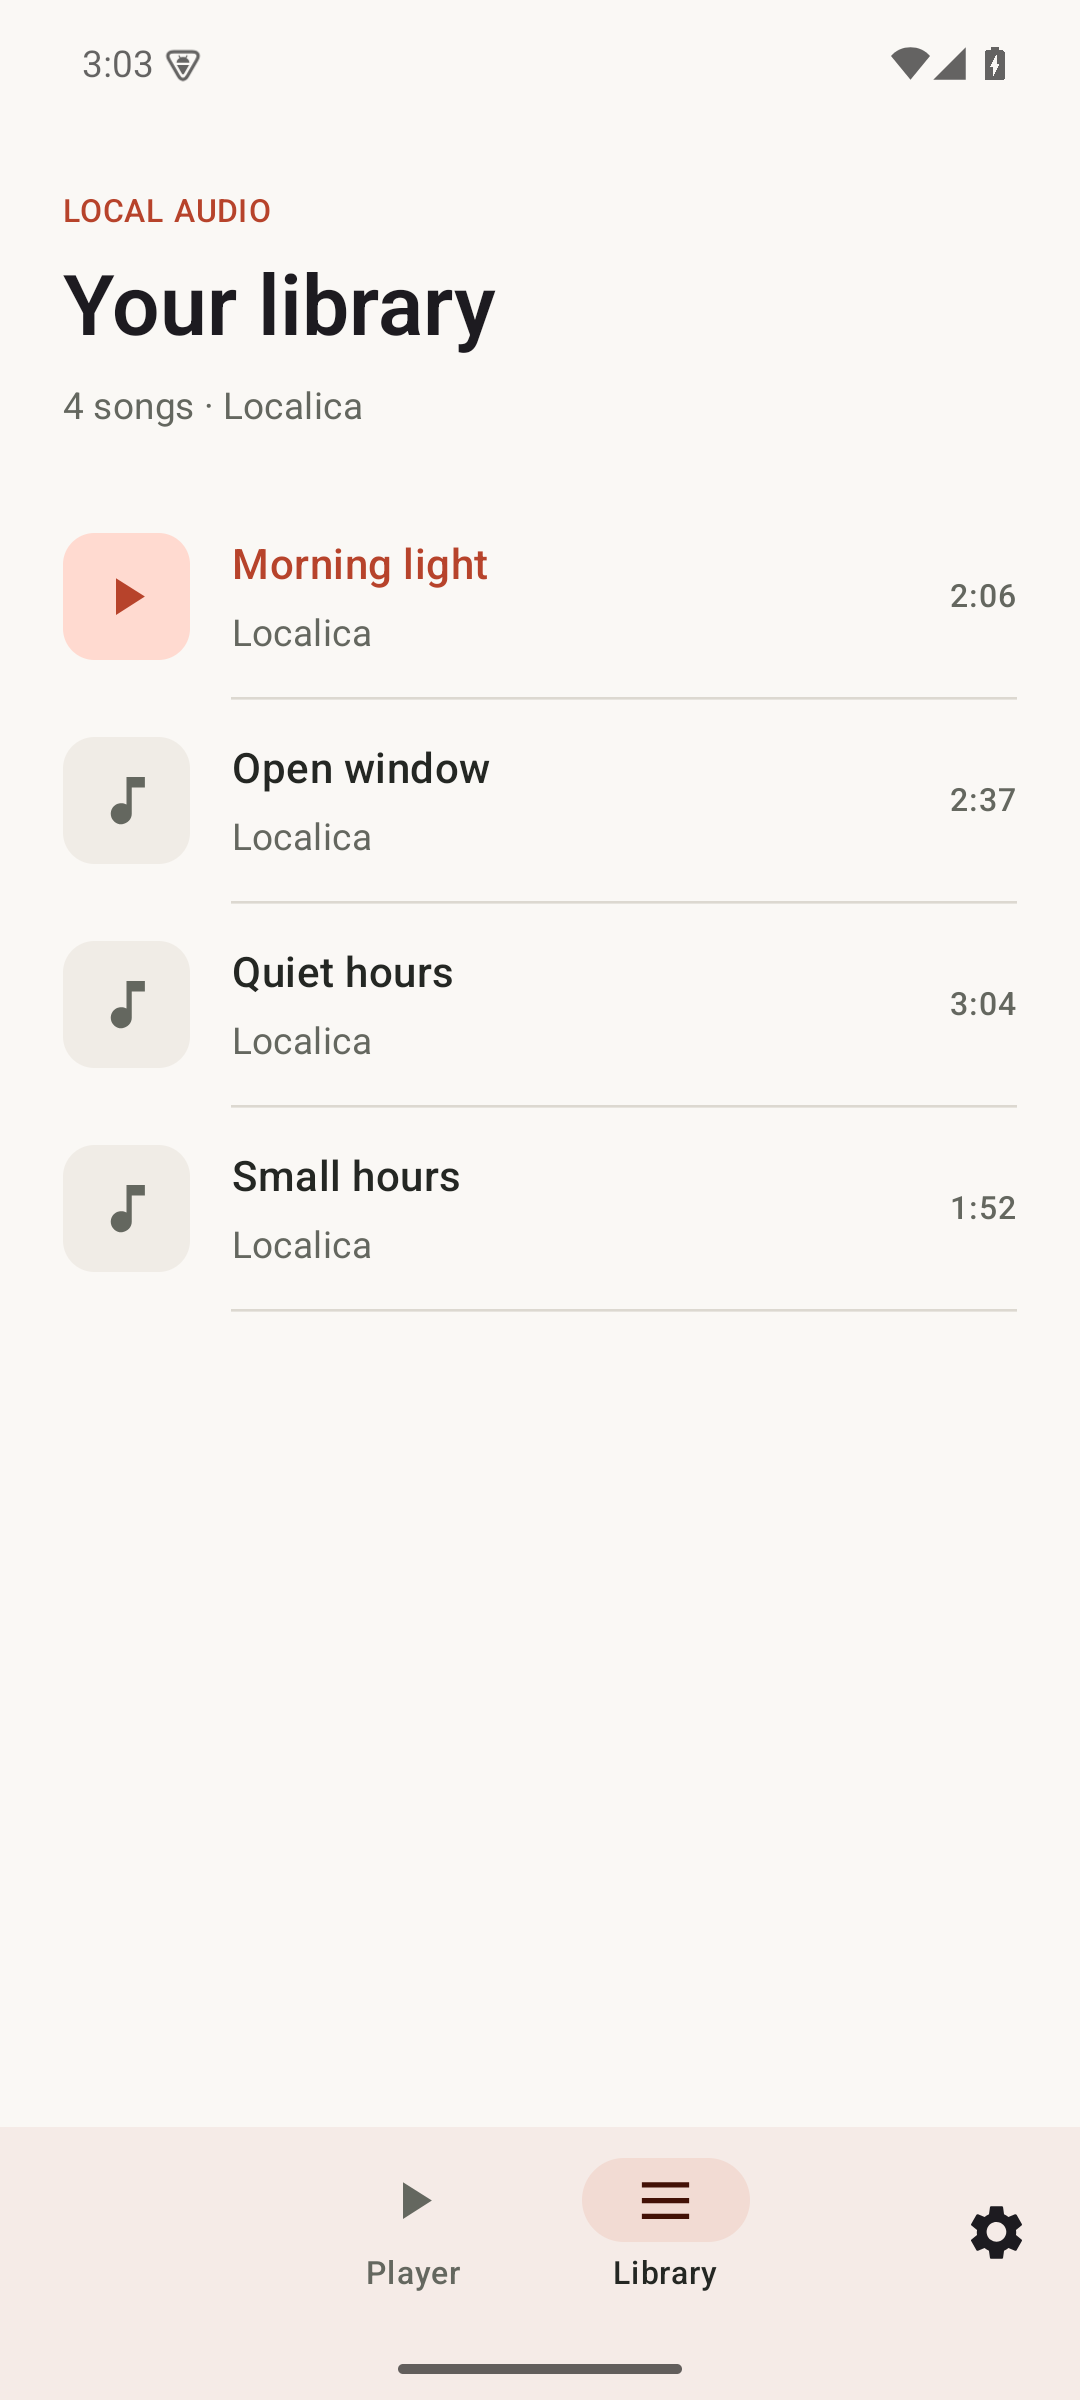
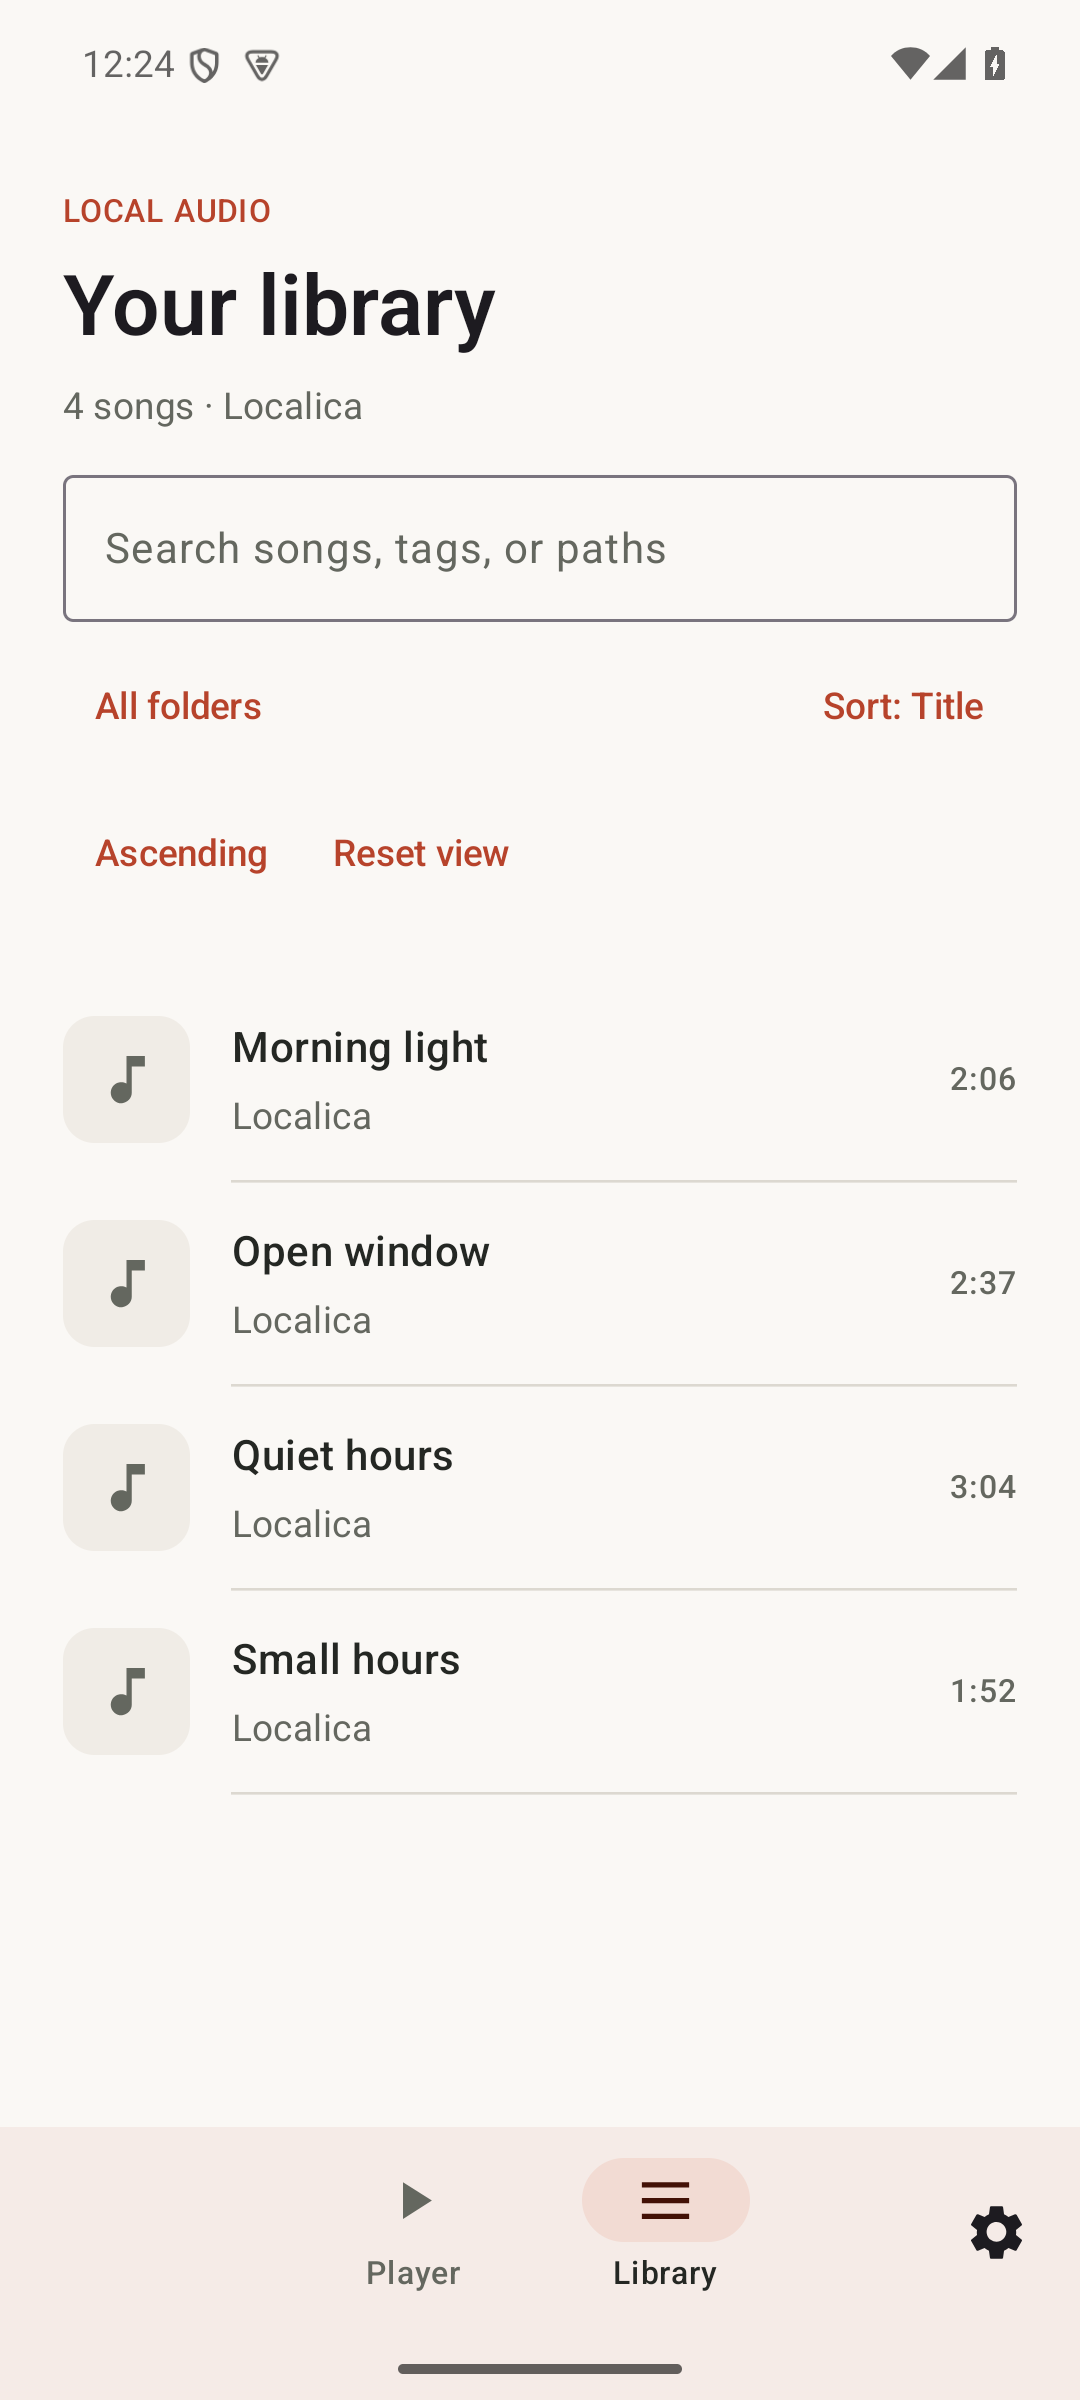
release: prepare v0.2.0 library foundation (#7)

diff --git a/README.md b/README.md
@@ -1,10 +1,10 @@
 # localica
 
-An Android player for music stored on your device. Choose a folder, browse its songs and subfolders, and play one track at a time.
+An Android player for music stored on your device. Add music folders, search and sort their songs, and play one track at a time.
 
 Two tabs. Play/pause and seeking. Background playback. No account or internet access.
 
-<img src="docs/images/player.png" width="250" alt="Player with track details, progress, and playback control"> <img src="docs/images/library.png" width="250" alt="Library listing audio scanned from a folder and its subfolders">
+<img src="docs/images/player.png" width="250" alt="Player with track details, progress, and playback control"> <img src="docs/images/library.png" width="250" alt="Library with search, folder filtering, sorting, and scanned songs">
 
 Screenshots show the app with generated sample tones.
 
